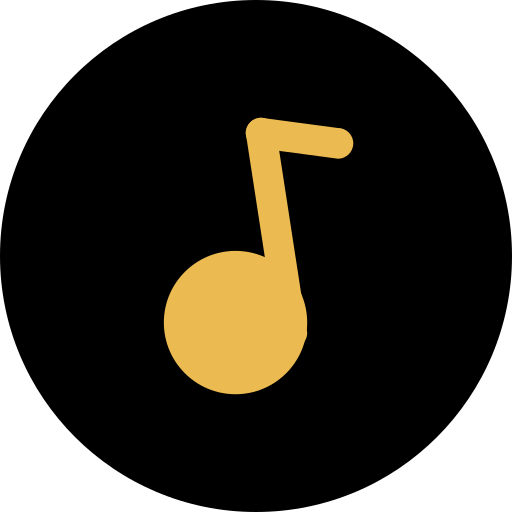
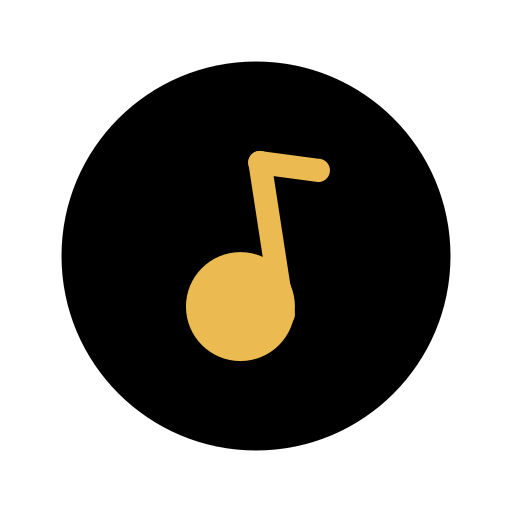
fix(mobile): 状态栏割裂 / PWA 闪绿 / 图标过大
1. 状态栏与内容割裂
   上一版把光晕中心放在 50% 0%（最顶端最亮），而 meta theme-color 是
   纯 theme.deep，两者色差在状态栏下沿形成一条明显色带。
   现在顶部 0~18% 用不透明纯 deep 遮罩，光晕下移到 46%（唱片区）才开始渐亮。
   像素级验证：6 套配色状态栏与内容顶部完全同色。

2. PWA 启动还是绿色
   manifest.json 的 background_color/theme_color 写死 #4d7c5f，这是 PWA
   启动闪屏的唯一来源（HTML 里的 theme-color 管不到）。改成 #10151c，
   与首屏 body 底色一致，从闪屏到内容无缝。
   iOS 状态栏 default（黑字）→ black-translucent（白字），配深色底才看得清。

3. 图标太大
   icon.svg 的黑色圆是 r=512 全出血，撑满画布，系统按"内容占满"渲染，
   视觉上比别的 App 大一圈。缩到 r=389（76%），四周留安全边距。
   另外补 icon-180.png（iOS 标准尺寸，原来给 192 会被拉伸），
   并把 maskable 拆成独立文件（满铺矩形 + 图形缩到 62%），
   避免 Android 圆形裁切切到图形。

顺带修：上一版用 !text-[var(--m-accent)] 等任意值类名，但 tailwind.css
是预编译的，这些类根本没被编译进去，图标会继承白色 → 白底上隐形。
已用项目自带的 build:css 重新编译，3 个主题类均正确生成。

版本 v10.2.14 → v10.2.15

diff --git a/assets/css/tailwind.css b/assets/css/tailwind.css
@@ -1,1 +1,1 @@
-*,:after,:before{--tw-border-spacing-x:0;--tw-border-spacing-y:0;--tw-translate-x:0;--tw-translate-y:0;--tw-rotate:0;--tw-skew-x:0;--tw-skew-y:0;--tw-scale-x:1;--tw-scale-y:1;--tw-pan-x: ;--tw-pan-y: ;--tw-pinch-zoom: ;--tw-scroll-snap-strictness:proximity;--tw-gradient-from-position: ;--tw-gradient-via-position: ;--tw-gradient-to-position: ;--tw-ordinal: ;--tw-slashed-zero: ;--tw-numeric-figure: ;--tw-numeric-spacing: ;--tw-numeric-fraction: ;--tw-ring-inset: ;--tw-ring-offset-width:0px;--tw-ring-offset-color:#fff;--tw-ring-color:rgba(59,130,246,.5);--tw-ring-offset-shadow:0 0 #0000;--tw-ring-shadow:0 0 #0000;--tw-shadow:0 0 #0000;--tw-shadow-colored:0 0 #0000;--tw-blur: ;--tw-brightness: ;--tw-contrast: ;--tw-grayscale: ;--tw-hue-rotate: ;--tw-invert: ;--tw-saturate: ;--tw-sepia: ;--tw-drop-shadow: ;--tw-backdrop-blur: ;--tw-backdrop-brightness: ;--tw-backdrop-contrast: ;--tw-backdrop-grayscale: ;--tw-backdrop-hue-rotate: ;--tw-backdrop-invert: ;--tw-backdrop-opacity: ;--tw-backdrop-saturate: ;--tw-backdrop-sepia: ;--tw-contain-size: ;--tw-contain-layout: ;--tw-contain-paint: ;--tw-contain-style: }::backdrop{--tw-border-spacing-x:0;--tw-border-spacing-y:0;--tw-translate-x:0;--tw-translate-y:0;--tw-rotate:0;--tw-skew-x:0;--tw-skew-y:0;--tw-scale-x:1;--tw-scale-y:1;--tw-pan-x: ;--tw-pan-y: ;--tw-pinch-zoom: ;--tw-scroll-snap-strictness:proximity;--tw-gradient-from-position: ;--tw-gradient-via-position: ;--tw-gradient-to-position: ;--tw-ordinal: ;--tw-slashed-zero: ;--tw-numeric-figure: ;--tw-numeric-spacing: ;--tw-numeric-fraction: ;--tw-ring-inset: ;--tw-ring-offset-width:0px;--tw-ring-offset-color:#fff;--tw-ring-color:rgba(59,130,246,.5);--tw-ring-offset-shadow:0 0 #0000;--tw-ring-shadow:0 0 #0000;--tw-shadow:0 0 #0000;--tw-shadow-colored:0 0 #0000;--tw-blur: ;--tw-brightness: ;--tw-contrast: ;--tw-grayscale: ;--tw-hue-rotate: ;--tw-invert: ;--tw-saturate: ;--tw-sepia: ;--tw-drop-shadow: ;--tw-backdrop-blur: ;--tw-backdrop-brightness: ;--tw-backdrop-contrast: ;--tw-backdrop-grayscale: ;--tw-backdrop-hue-rotate: ;--tw-backdrop-invert: ;--tw-backdrop-opacity: ;--tw-backdrop-saturate: ;--tw-backdrop-sepia: ;--tw-contain-size: ;--tw-contain-layout: ;--tw-contain-paint: ;--tw-contain-style: }/*! tailwindcss v3.4.19 | MIT License | https://tailwindcss.com*/*,:after,:before{box-sizing:border-box;border:0 solid #e5e7eb}:after,:before{--tw-content:""}:host,html{line-height:1.5;-webkit-text-size-adjust:100%;-moz-tab-size:4;-o-tab-size:4;tab-size:4;font-family:ui-sans-serif,system-ui,sans-serif,Apple Color Emoji,Segoe UI Emoji,Segoe UI Symbol,Noto Color Emoji;font-feature-settings:normal;font-variation-settings:normal;-webkit-tap-highlight-color:transparent}body{margin:0;line-height:inherit}hr{height:0;color:inherit;border-top-width:1px}abbr:where([title]){-webkit-text-decoration:underline dotted;text-decoration:underline dotted}h1,h2,h3,h4,h5,h6{font-size:inherit;font-weight:inherit}a{color:inherit;text-decoration:inherit}b,strong{font-weight:bolder}code,kbd,pre,samp{font-family:ui-monospace,SFMono-Regular,Menlo,Monaco,Consolas,Liberation Mono,Courier New,monospace;font-feature-settings:normal;font-variation-settings:normal;font-size:1em}small{font-size:80%}sub,sup{font-size:75%;line-height:0;position:relative;vertical-align:baseline}sub{bottom:-.25em}sup{top:-.5em}table{text-indent:0;border-color:inherit;border-collapse:collapse}button,input,optgroup,select,textarea{font-family:inherit;font-feature-settings:inherit;font-variation-settings:inherit;font-size:100%;font-weight:inherit;line-height:inherit;letter-spacing:inherit;color:inherit;margin:0;padding:0}button,select{text-transform:none}button,input:where([type=button]),input:where([type=reset]),input:where([type=submit]){-webkit-appearance:button;background-color:transparent;background-image:none}:-moz-focusring{outline:auto}:-moz-ui-invalid{box-shadow:none}progress{vertical-align:baseline}::-webkit-inner-spin-button,::-webkit-outer-spin-button{height:auto}[type=search]{-webkit-appearance:textfield;outline-offset:-2px}::-webkit-search-decoration{-webkit-appearance:none}::-webkit-file-upload-button{-webkit-appearance:button;font:inherit}summary{display:list-item}blockquote,dd,dl,figure,h1,h2,h3,h4,h5,h6,hr,p,pre{margin:0}fieldset{margin:0}fieldset,legend{padding:0}menu,ol,ul{list-style:none;margin:0;padding:0}dialog{padding:0}textarea{resize:vertical}input::-moz-placeholder,textarea::-moz-placeholder{opacity:1;color:#9ca3af}input::placeholder,textarea::placeholder{opacity:1;color:#9ca3af}[role=button],button{cursor:pointer}:disabled{cursor:default}audio,canvas,embed,iframe,img,object,svg,video{display:block;vertical-align:middle}img,video{max-width:100%;height:auto}[hidden]:where(:not([hidden=until-found])){display:none}.\!container{width:100%!important}.container{width:100%}@media (min-width:640px){.\!container{max-width:640px!important}.container{max-width:640px}}@media (min-width:768px){.\!container{max-width:768px!important}.container{max-width:768px}}@media (min-width:1024px){.\!container{max-width:1024px!important}.container{max-width:1024px}}@media (min-width:1280px){.\!container{max-width:1280px!important}.container{max-width:1280px}}@media (min-width:1536px){.\!container{max-width:1536px!important}.container{max-width:1536px}}.pointer-events-none{pointer-events:none}.visible{visibility:visible}.fixed{position:fixed}.absolute{position:absolute}.relative{position:relative}.inset-0{inset:0}.\!-right-1\.5{right:-.375rem!important}.\!right-\[-8px\]{right:-8px!important}.isolate{isolation:isolate}.z-\[3000\]{z-index:3000}.mx-auto{margin-left:auto;margin-right:auto}.mb-1{margin-bottom:.25rem}.mb-2{margin-bottom:.5rem}.mb-5{margin-bottom:1.25rem}.mb-8{margin-bottom:2rem}.ml-2{margin-left:.5rem}.ml-4{margin-left:1rem}.mt-2{margin-top:.5rem}.mt-3{margin-top:.75rem}.mt-6{margin-top:1.5rem}.block{display:block}.inline-block{display:inline-block}.flex{display:flex}.inline-flex{display:inline-flex}.grid{display:grid}.hidden{display:none}.\!h-3{height:.75rem!important}.\!h-\[16px\]{height:16px!important}.h-1\.5{height:.375rem}.h-10{height:2.5rem}.h-3{height:.75rem}.h-4{height:1rem}.h-5{height:1.25rem}.h-6{height:1.5rem}.h-8{height:2rem}.max-h-\[350px\]{max-height:350px}.min-h-\[100px\]{min-height:100px}.\!w-3{width:.75rem!important}.\!w-\[16px\]{width:16px!important}.w-1\.5{width:.375rem}.w-10{width:2.5rem}.w-2\/3{width:66.666667%}.w-3{width:.75rem}.w-4{width:1rem}.w-5{width:1.25rem}.w-6{width:1.5rem}.w-8{width:2rem}.w-\[300px\]{width:300px}.w-\[320px\]{width:320px}.w-full{width:100%}.max-w-\[70\%\]{max-width:70%}.max-w-\[90\%\]{max-width:90%}.flex-1{flex:1 1 0%}.flex-shrink{flex-shrink:1}.flex-shrink-0{flex-shrink:0}.scale-95{--tw-scale-x:.95;--tw-scale-y:.95}.scale-95,.transform{transform:translate(var(--tw-translate-x),var(--tw-translate-y)) rotate(var(--tw-rotate)) skewX(var(--tw-skew-x)) skewY(var(--tw-skew-y)) scaleX(var(--tw-scale-x)) scaleY(var(--tw-scale-y))}@keyframes pulse{50%{opacity:.5}}.animate-pulse{animation:pulse 2s cubic-bezier(.4,0,.6,1) infinite}.cursor-pointer{cursor:pointer}.resize{resize:both}.flex-col{flex-direction:column}.flex-wrap{flex-wrap:wrap}.items-center{align-items:center}.justify-center{justify-content:center}.justify-between{justify-content:space-between}.gap-1\.5{gap:.375rem}.gap-2{gap:.5rem}.gap-3{gap:.75rem}.gap-4{gap:1rem}.space-y-2>:not([hidden])~:not([hidden]){--tw-space-y-reverse:0;margin-top:calc(.5rem*(1 - var(--tw-space-y-reverse)));margin-bottom:calc(.5rem*var(--tw-space-y-reverse))}.space-y-3>:not([hidden])~:not([hidden]){--tw-space-y-reverse:0;margin-top:calc(.75rem*(1 - var(--tw-space-y-reverse)));margin-bottom:calc(.75rem*var(--tw-space-y-reverse))}.overflow-hidden{overflow:hidden}.overflow-x-auto{overflow-x:auto}.overflow-y-auto{overflow-y:auto}.truncate{overflow:hidden;text-overflow:ellipsis}.truncate,.whitespace-nowrap{white-space:nowrap}.rounded{border-radius:.25rem}.rounded-2xl{border-radius:1rem}.rounded-3xl{border-radius:1.5rem}.rounded-\[2\.5rem\]{border-radius:2.5rem}.rounded-full{border-radius:9999px}.rounded-lg{border-radius:.5rem}.rounded-xl{border-radius:.75rem}.\!border-\[2px\]{border-width:2px!important}.border{border-width:1px}.border-b{border-bottom-width:1px}.\!border-white{--tw-border-opacity:1!important;border-color:rgb(255 255 255/var(--tw-border-opacity,1))!important}.border-black\/5{border-color:rgba(0,0,0,.05)}.border-white\/10{border-color:hsla(0,0%,100%,.1)}.border-white\/20{border-color:hsla(0,0%,100%,.2)}.border-white\/25{border-color:hsla(0,0%,100%,.25)}.border-white\/5{border-color:hsla(0,0%,100%,.05)}.\!bg-\[\#4d7c5f\]{--tw-bg-opacity:1!important;background-color:rgb(77 124 95/var(--tw-bg-opacity,1))!important}.\!bg-transparent{background-color:transparent!important}.\!bg-white{--tw-bg-opacity:1!important;background-color:rgb(255 255 255/var(--tw-bg-opacity,1))!important}.\!bg-white\/10{background-color:hsla(0,0%,100%,.1)!important}.\!bg-white\/20{background-color:hsla(0,0%,100%,.2)!important}.\!bg-white\/25{background-color:hsla(0,0%,100%,.25)!important}.bg-\[\#1e293b\]\/80{background-color:rgba(30,41,59,.8)}.bg-\[\#1e293b\]\/95{background-color:rgba(30,41,59,.95)}.bg-\[\#4d7c5f\]{--tw-bg-opacity:1;background-color:rgb(77 124 95/var(--tw-bg-opacity,1))}.bg-black\/60{background-color:rgba(0,0,0,.6)}.bg-emerald-400{--tw-bg-opacity:1;background-color:rgb(52 211 153/var(--tw-bg-opacity,1))}.bg-red-400{--tw-bg-opacity:1;background-color:rgb(248 113 113/var(--tw-bg-opacity,1))}.bg-red-500\/20{background-color:rgba(239,68,68,.2)}.bg-red-500\/5{background-color:rgba(239,68,68,.05)}.bg-white\/10{background-color:hsla(0,0%,100%,.1)}.bg-white\/15{background-color:hsla(0,0%,100%,.15)}.bg-white\/5{background-color:hsla(0,0%,100%,.05)}.object-cover{-o-object-fit:cover;object-fit:cover}.p-0{padding:0}.p-3{padding:.75rem}.p-4{padding:1rem}.p-6{padding:1.5rem}.p-8{padding:2rem}.px-1{padding-left:.25rem;padding-right:.25rem}.px-2{padding-left:.5rem;padding-right:.5rem}.px-3{padding-left:.75rem;padding-right:.75rem}.px-4{padding-left:1rem;padding-right:1rem}.px-5{padding-left:1.25rem;padding-right:1.25rem}.py-0\.5{padding-top:.125rem;padding-bottom:.125rem}.py-1\.5{padding-top:.375rem;padding-bottom:.375rem}.py-10{padding-top:2.5rem;padding-bottom:2.5rem}.py-2{padding-top:.5rem;padding-bottom:.5rem}.py-2\.5{padding-top:.625rem;padding-bottom:.625rem}.py-20{padding-top:5rem;padding-bottom:5rem}.py-3{padding-top:.75rem;padding-bottom:.75rem}.py-4{padding-top:1rem;padding-bottom:1rem}.pb-10{padding-bottom:2.5rem}.pb-3{padding-bottom:.75rem}.text-center{text-align:center}.font-mono{font-family:ui-monospace,SFMono-Regular,Menlo,Monaco,Consolas,Liberation Mono,Courier New,monospace}.text-\[10px\]{font-size:10px}.text-\[11px\]{font-size:11px}.text-\[9px\]{font-size:9px}.text-lg{font-size:1.125rem;line-height:1.75rem}.text-sm{font-size:.875rem;line-height:1.25rem}.text-xl{font-size:1.25rem;line-height:1.75rem}.text-xs{font-size:.75rem;line-height:1rem}.font-black{font-weight:900}.font-bold{font-weight:700}.uppercase{text-transform:uppercase}.italic{font-style:italic}.tabular-nums{--tw-numeric-spacing:tabular-nums;font-variant-numeric:var(--tw-ordinal) var(--tw-slashed-zero) var(--tw-numeric-figure) var(--tw-numeric-spacing) var(--tw-numeric-fraction)}.leading-relaxed{line-height:1.625}.tracking-tight{letter-spacing:-.025em}.tracking-wider{letter-spacing:.05em}.tracking-widest{letter-spacing:.1em}.\!text-\[\#4d7c5f\]{--tw-text-opacity:1!important;color:rgb(77 124 95/var(--tw-text-opacity,1))!important}.text-emerald-400{--tw-text-opacity:1;color:rgb(52 211 153/var(--tw-text-opacity,1))}.text-red-300{--tw-text-opacity:1;color:rgb(252 165 165/var(--tw-text-opacity,1))}.text-red-400\/60{color:hsla(0,91%,71%,.6)}.text-slate-800{--tw-text-opacity:1;color:rgb(30 41 59/var(--tw-text-opacity,1))}.text-white{--tw-text-opacity:1;color:rgb(255 255 255/var(--tw-text-opacity,1))}.text-white\/20{color:hsla(0,0%,100%,.2)}.text-white\/30{color:hsla(0,0%,100%,.3)}.text-white\/40{color:hsla(0,0%,100%,.4)}.text-white\/50{color:hsla(0,0%,100%,.5)}.text-white\/60{color:hsla(0,0%,100%,.6)}.text-white\/80{color:hsla(0,0%,100%,.8)}.\!opacity-100{opacity:1!important}.\!opacity-30{opacity:.3!important}.opacity-0{opacity:0}.opacity-20{opacity:.2}.opacity-30{opacity:.3}.opacity-40{opacity:.4}.opacity-50{opacity:.5}.\!shadow-xl{--tw-shadow:0 20px 25px -5px rgba(0,0,0,.1),0 8px 10px -6px rgba(0,0,0,.1)!important;--tw-shadow-colored:0 20px 25px -5px var(--tw-shadow-color),0 8px 10px -6px var(--tw-shadow-color)!important;box-shadow:var(--tw-ring-offset-shadow,0 0 #0000),var(--tw-ring-shadow,0 0 #0000),var(--tw-shadow)!important}.shadow-2xl{--tw-shadow:0 25px 50px -12px rgba(0,0,0,.25);--tw-shadow-colored:0 25px 50px -12px var(--tw-shadow-color);box-shadow:var(--tw-ring-offset-shadow,0 0 #0000),var(--tw-ring-shadow,0 0 #0000),var(--tw-shadow)}.shadow-\[0_0_5px_\#34d399\]{--tw-shadow:0 0 5px #34d399;--tw-shadow-colored:0 0 5px var(--tw-shadow-color)}.shadow-\[0_0_5px_\#34d399\],.shadow-\[0_0_5px_\#f87171\]{box-shadow:var(--tw-ring-offset-shadow,0 0 #0000),var(--tw-ring-shadow,0 0 #0000),var(--tw-shadow)}.shadow-\[0_0_5px_\#f87171\]{--tw-shadow:0 0 5px #f87171;--tw-shadow-colored:0 0 5px var(--tw-shadow-color)}.shadow-inner{--tw-shadow:inset 0 2px 4px 0 rgba(0,0,0,.05);--tw-shadow-colored:inset 0 2px 4px 0 var(--tw-shadow-color)}.shadow-inner,.shadow-lg{box-shadow:var(--tw-ring-offset-shadow,0 0 #0000),var(--tw-ring-shadow,0 0 #0000),var(--tw-shadow)}.shadow-lg{--tw-shadow:0 10px 15px -3px rgba(0,0,0,.1),0 4px 6px -4px rgba(0,0,0,.1);--tw-shadow-colored:0 10px 15px -3px var(--tw-shadow-color),0 4px 6px -4px var(--tw-shadow-color)}.shadow-sm{--tw-shadow:0 1px 2px 0 rgba(0,0,0,.05);--tw-shadow-colored:0 1px 2px 0 var(--tw-shadow-color);box-shadow:var(--tw-ring-offset-shadow,0 0 #0000),var(--tw-ring-shadow,0 0 #0000),var(--tw-shadow)}.outline-none{outline:2px solid transparent;outline-offset:2px}.outline{outline-style:solid}.blur{--tw-blur:blur(8px)}.blur,.filter{filter:var(--tw-blur) var(--tw-brightness) var(--tw-contrast) var(--tw-grayscale) var(--tw-hue-rotate) var(--tw-invert) var(--tw-saturate) var(--tw-sepia) var(--tw-drop-shadow)}.backdrop-blur-2xl{--tw-backdrop-blur:blur(40px)}.backdrop-blur-2xl,.backdrop-blur-3xl{-webkit-backdrop-filter:var(--tw-backdrop-blur) var(--tw-backdrop-brightness) var(--tw-backdrop-contrast) var(--tw-backdrop-grayscale) var(--tw-backdrop-hue-rotate) var(--tw-backdrop-invert) var(--tw-backdrop-opacity) var(--tw-backdrop-saturate) var(--tw-backdrop-sepia);backdrop-filter:var(--tw-backdrop-blur) var(--tw-backdrop-brightness) var(--tw-backdrop-contrast) var(--tw-backdrop-grayscale) var(--tw-backdrop-hue-rotate) var(--tw-backdrop-invert) var(--tw-backdrop-opacity) var(--tw-backdrop-saturate) var(--tw-backdrop-sepia)}.backdrop-blur-3xl{--tw-backdrop-blur:blur(64px)}.backdrop-blur-xl{--tw-backdrop-blur:blur(24px)}.backdrop-blur-xl,.backdrop-filter{-webkit-backdrop-filter:var(--tw-backdrop-blur) var(--tw-backdrop-brightness) var(--tw-backdrop-contrast) var(--tw-backdrop-grayscale) var(--tw-backdrop-hue-rotate) var(--tw-backdrop-invert) var(--tw-backdrop-opacity) var(--tw-backdrop-saturate) var(--tw-backdrop-sepia);backdrop-filter:var(--tw-backdrop-blur) var(--tw-backdrop-brightness) var(--tw-backdrop-contrast) var(--tw-backdrop-grayscale) var(--tw-backdrop-hue-rotate) var(--tw-backdrop-invert) var(--tw-backdrop-opacity) var(--tw-backdrop-saturate) var(--tw-backdrop-sepia)}.transition{transition-property:color,background-color,border-color,text-decoration-color,fill,stroke,opacity,box-shadow,transform,filter,-webkit-backdrop-filter;transition-property:color,background-color,border-color,text-decoration-color,fill,stroke,opacity,box-shadow,transform,filter,backdrop-filter;transition-property:color,background-color,border-color,text-decoration-color,fill,stroke,opacity,box-shadow,transform,filter,backdrop-filter,-webkit-backdrop-filter;transition-timing-function:cubic-bezier(.4,0,.2,1);transition-duration:.15s}.transition-all{transition-property:all;transition-timing-function:cubic-bezier(.4,0,.2,1);transition-duration:.15s}.duration-300{transition-duration:.3s}.ease-in-out{transition-timing-function:cubic-bezier(.4,0,.2,1)}.hover\:scale-110:hover{--tw-scale-x:1.1;--tw-scale-y:1.1}.hover\:scale-110:hover,.hover\:scale-125:hover{transform:translate(var(--tw-translate-x),var(--tw-translate-y)) rotate(var(--tw-rotate)) skewX(var(--tw-skew-x)) skewY(var(--tw-skew-y)) scaleX(var(--tw-scale-x)) scaleY(var(--tw-scale-y))}.hover\:scale-125:hover{--tw-scale-x:1.25;--tw-scale-y:1.25}.hover\:bg-\[\#5a8f6e\]:hover{--tw-bg-opacity:1;background-color:rgb(90 143 110/var(--tw-bg-opacity,1))}.hover\:bg-white\/10:hover{background-color:hsla(0,0%,100%,.1)}.hover\:bg-white\/20:hover{background-color:hsla(0,0%,100%,.2)}.hover\:text-white:hover{--tw-text-opacity:1;color:rgb(255 255 255/var(--tw-text-opacity,1))}.hover\:opacity-100:hover{opacity:1}.focus\:border-\[\#4d7c5f\]\/50:focus{border-color:rgba(77,124,95,.5)}.focus\:bg-white\/10:focus{background-color:hsla(0,0%,100%,.1)}.active\:scale-95:active{--tw-scale-x:.95;--tw-scale-y:.95;transform:translate(var(--tw-translate-x),var(--tw-translate-y)) rotate(var(--tw-rotate)) skewX(var(--tw-skew-x)) skewY(var(--tw-skew-y)) scaleX(var(--tw-scale-x)) scaleY(var(--tw-scale-y))}
+*,:after,:before{--tw-border-spacing-x:0;--tw-border-spacing-y:0;--tw-translate-x:0;--tw-translate-y:0;--tw-rotate:0;--tw-skew-x:0;--tw-skew-y:0;--tw-scale-x:1;--tw-scale-y:1;--tw-pan-x: ;--tw-pan-y: ;--tw-pinch-zoom: ;--tw-scroll-snap-strictness:proximity;--tw-gradient-from-position: ;--tw-gradient-via-position: ;--tw-gradient-to-position: ;--tw-ordinal: ;--tw-slashed-zero: ;--tw-numeric-figure: ;--tw-numeric-spacing: ;--tw-numeric-fraction: ;--tw-ring-inset: ;--tw-ring-offset-width:0px;--tw-ring-offset-color:#fff;--tw-ring-color:rgba(59,130,246,.5);--tw-ring-offset-shadow:0 0 #0000;--tw-ring-shadow:0 0 #0000;--tw-shadow:0 0 #0000;--tw-shadow-colored:0 0 #0000;--tw-blur: ;--tw-brightness: ;--tw-contrast: ;--tw-grayscale: ;--tw-hue-rotate: ;--tw-invert: ;--tw-saturate: ;--tw-sepia: ;--tw-drop-shadow: ;--tw-backdrop-blur: ;--tw-backdrop-brightness: ;--tw-backdrop-contrast: ;--tw-backdrop-grayscale: ;--tw-backdrop-hue-rotate: ;--tw-backdrop-invert: ;--tw-backdrop-opacity: ;--tw-backdrop-saturate: ;--tw-backdrop-sepia: ;--tw-contain-size: ;--tw-contain-layout: ;--tw-contain-paint: ;--tw-contain-style: }::backdrop{--tw-border-spacing-x:0;--tw-border-spacing-y:0;--tw-translate-x:0;--tw-translate-y:0;--tw-rotate:0;--tw-skew-x:0;--tw-skew-y:0;--tw-scale-x:1;--tw-scale-y:1;--tw-pan-x: ;--tw-pan-y: ;--tw-pinch-zoom: ;--tw-scroll-snap-strictness:proximity;--tw-gradient-from-position: ;--tw-gradient-via-position: ;--tw-gradient-to-position: ;--tw-ordinal: ;--tw-slashed-zero: ;--tw-numeric-figure: ;--tw-numeric-spacing: ;--tw-numeric-fraction: ;--tw-ring-inset: ;--tw-ring-offset-width:0px;--tw-ring-offset-color:#fff;--tw-ring-color:rgba(59,130,246,.5);--tw-ring-offset-shadow:0 0 #0000;--tw-ring-shadow:0 0 #0000;--tw-shadow:0 0 #0000;--tw-shadow-colored:0 0 #0000;--tw-blur: ;--tw-brightness: ;--tw-contrast: ;--tw-grayscale: ;--tw-hue-rotate: ;--tw-invert: ;--tw-saturate: ;--tw-sepia: ;--tw-drop-shadow: ;--tw-backdrop-blur: ;--tw-backdrop-brightness: ;--tw-backdrop-contrast: ;--tw-backdrop-grayscale: ;--tw-backdrop-hue-rotate: ;--tw-backdrop-invert: ;--tw-backdrop-opacity: ;--tw-backdrop-saturate: ;--tw-backdrop-sepia: ;--tw-contain-size: ;--tw-contain-layout: ;--tw-contain-paint: ;--tw-contain-style: }/*! tailwindcss v3.4.19 | MIT License | https://tailwindcss.com*/*,:after,:before{box-sizing:border-box;border:0 solid #e5e7eb}:after,:before{--tw-content:""}:host,html{line-height:1.5;-webkit-text-size-adjust:100%;-moz-tab-size:4;-o-tab-size:4;tab-size:4;font-family:ui-sans-serif,system-ui,sans-serif,Apple Color Emoji,Segoe UI Emoji,Segoe UI Symbol,Noto Color Emoji;font-feature-settings:normal;font-variation-settings:normal;-webkit-tap-highlight-color:transparent}body{margin:0;line-height:inherit}hr{height:0;color:inherit;border-top-width:1px}abbr:where([title]){-webkit-text-decoration:underline dotted;text-decoration:underline dotted}h1,h2,h3,h4,h5,h6{font-size:inherit;font-weight:inherit}a{color:inherit;text-decoration:inherit}b,strong{font-weight:bolder}code,kbd,pre,samp{font-family:ui-monospace,SFMono-Regular,Menlo,Monaco,Consolas,Liberation Mono,Courier New,monospace;font-feature-settings:normal;font-variation-settings:normal;font-size:1em}small{font-size:80%}sub,sup{font-size:75%;line-height:0;position:relative;vertical-align:baseline}sub{bottom:-.25em}sup{top:-.5em}table{text-indent:0;border-color:inherit;border-collapse:collapse}button,input,optgroup,select,textarea{font-family:inherit;font-feature-settings:inherit;font-variation-settings:inherit;font-size:100%;font-weight:inherit;line-height:inherit;letter-spacing:inherit;color:inherit;margin:0;padding:0}button,select{text-transform:none}button,input:where([type=button]),input:where([type=reset]),input:where([type=submit]){-webkit-appearance:button;background-color:transparent;background-image:none}:-moz-focusring{outline:auto}:-moz-ui-invalid{box-shadow:none}progress{vertical-align:baseline}::-webkit-inner-spin-button,::-webkit-outer-spin-button{height:auto}[type=search]{-webkit-appearance:textfield;outline-offset:-2px}::-webkit-search-decoration{-webkit-appearance:none}::-webkit-file-upload-button{-webkit-appearance:button;font:inherit}summary{display:list-item}blockquote,dd,dl,figure,h1,h2,h3,h4,h5,h6,hr,p,pre{margin:0}fieldset{margin:0}fieldset,legend{padding:0}menu,ol,ul{list-style:none;margin:0;padding:0}dialog{padding:0}textarea{resize:vertical}input::-moz-placeholder,textarea::-moz-placeholder{opacity:1;color:#9ca3af}input::placeholder,textarea::placeholder{opacity:1;color:#9ca3af}[role=button],button{cursor:pointer}:disabled{cursor:default}audio,canvas,embed,iframe,img,object,svg,video{display:block;vertical-align:middle}img,video{max-width:100%;height:auto}[hidden]:where(:not([hidden=until-found])){display:none}.\!container{width:100%!important}.container{width:100%}@media (min-width:640px){.\!container{max-width:640px!important}.container{max-width:640px}}@media (min-width:768px){.\!container{max-width:768px!important}.container{max-width:768px}}@media (min-width:1024px){.\!container{max-width:1024px!important}.container{max-width:1024px}}@media (min-width:1280px){.\!container{max-width:1280px!important}.container{max-width:1280px}}@media (min-width:1536px){.\!container{max-width:1536px!important}.container{max-width:1536px}}.pointer-events-none{pointer-events:none}.visible{visibility:visible}.fixed{position:fixed}.absolute{position:absolute}.relative{position:relative}.inset-0{inset:0}.\!-right-1\.5{right:-.375rem!important}.\!right-\[-8px\]{right:-8px!important}.isolate{isolation:isolate}.z-\[3000\]{z-index:3000}.mx-auto{margin-left:auto;margin-right:auto}.mb-1{margin-bottom:.25rem}.mb-2{margin-bottom:.5rem}.mb-5{margin-bottom:1.25rem}.mb-8{margin-bottom:2rem}.ml-2{margin-left:.5rem}.ml-4{margin-left:1rem}.mt-3{margin-top:.75rem}.mt-6{margin-top:1.5rem}.block{display:block}.inline-block{display:inline-block}.flex{display:flex}.inline-flex{display:inline-flex}.grid{display:grid}.hidden{display:none}.\!h-3{height:.75rem!important}.\!h-\[16px\]{height:16px!important}.h-1\.5{height:.375rem}.h-10{height:2.5rem}.h-3{height:.75rem}.h-4{height:1rem}.h-5{height:1.25rem}.h-6{height:1.5rem}.h-8{height:2rem}.max-h-\[350px\]{max-height:350px}.min-h-\[100px\]{min-height:100px}.\!w-3{width:.75rem!important}.\!w-\[16px\]{width:16px!important}.w-1\.5{width:.375rem}.w-10{width:2.5rem}.w-2\/3{width:66.666667%}.w-3{width:.75rem}.w-4{width:1rem}.w-5{width:1.25rem}.w-6{width:1.5rem}.w-8{width:2rem}.w-\[300px\]{width:300px}.w-\[320px\]{width:320px}.w-full{width:100%}.max-w-\[70\%\]{max-width:70%}.max-w-\[90\%\]{max-width:90%}.flex-1{flex:1 1 0%}.flex-shrink{flex-shrink:1}.flex-shrink-0{flex-shrink:0}.scale-95{--tw-scale-x:.95;--tw-scale-y:.95}.scale-95,.transform{transform:translate(var(--tw-translate-x),var(--tw-translate-y)) rotate(var(--tw-rotate)) skewX(var(--tw-skew-x)) skewY(var(--tw-skew-y)) scaleX(var(--tw-scale-x)) scaleY(var(--tw-scale-y))}@keyframes pulse{50%{opacity:.5}}.animate-pulse{animation:pulse 2s cubic-bezier(.4,0,.6,1) infinite}.cursor-pointer{cursor:pointer}.resize{resize:both}.flex-col{flex-direction:column}.flex-wrap{flex-wrap:wrap}.items-center{align-items:center}.justify-center{justify-content:center}.justify-between{justify-content:space-between}.gap-1\.5{gap:.375rem}.gap-2{gap:.5rem}.gap-3{gap:.75rem}.gap-4{gap:1rem}.space-y-2>:not([hidden])~:not([hidden]){--tw-space-y-reverse:0;margin-top:calc(.5rem*(1 - var(--tw-space-y-reverse)));margin-bottom:calc(.5rem*var(--tw-space-y-reverse))}.space-y-3>:not([hidden])~:not([hidden]){--tw-space-y-reverse:0;margin-top:calc(.75rem*(1 - var(--tw-space-y-reverse)));margin-bottom:calc(.75rem*var(--tw-space-y-reverse))}.overflow-hidden{overflow:hidden}.overflow-x-auto{overflow-x:auto}.overflow-y-auto{overflow-y:auto}.truncate{overflow:hidden;text-overflow:ellipsis}.truncate,.whitespace-nowrap{white-space:nowrap}.rounded{border-radius:.25rem}.rounded-2xl{border-radius:1rem}.rounded-3xl{border-radius:1.5rem}.rounded-\[2\.5rem\]{border-radius:2.5rem}.rounded-full{border-radius:9999px}.rounded-lg{border-radius:.5rem}.rounded-xl{border-radius:.75rem}.\!border-\[2px\]{border-width:2px!important}.border{border-width:1px}.border-b{border-bottom-width:1px}.\!border-white{--tw-border-opacity:1!important;border-color:rgb(255 255 255/var(--tw-border-opacity,1))!important}.border-black\/5{border-color:rgba(0,0,0,.05)}.border-white\/10{border-color:hsla(0,0%,100%,.1)}.border-white\/20{border-color:hsla(0,0%,100%,.2)}.border-white\/25{border-color:hsla(0,0%,100%,.25)}.border-white\/5{border-color:hsla(0,0%,100%,.05)}.\!bg-\[var\(--m-accent\)\]{background-color:var(--m-accent)!important}.\!bg-transparent{background-color:transparent!important}.\!bg-white{--tw-bg-opacity:1!important;background-color:rgb(255 255 255/var(--tw-bg-opacity,1))!important}.\!bg-white\/10{background-color:hsla(0,0%,100%,.1)!important}.\!bg-white\/20{background-color:hsla(0,0%,100%,.2)!important}.\!bg-white\/25{background-color:hsla(0,0%,100%,.25)!important}.bg-\[\#1e293b\]\/80{background-color:rgba(30,41,59,.8)}.bg-\[\#1e293b\]\/95{background-color:rgba(30,41,59,.95)}.bg-\[var\(--m-accent\)\]{background-color:var(--m-accent)}.bg-black\/60{background-color:rgba(0,0,0,.6)}.bg-emerald-400{--tw-bg-opacity:1;background-color:rgb(52 211 153/var(--tw-bg-opacity,1))}.bg-emerald-500\/30{background-color:rgba(16,185,129,.3)}.bg-red-400{--tw-bg-opacity:1;background-color:rgb(248 113 113/var(--tw-bg-opacity,1))}.bg-red-500\/20{background-color:rgba(239,68,68,.2)}.bg-red-500\/5{background-color:rgba(239,68,68,.05)}.bg-white\/10{background-color:hsla(0,0%,100%,.1)}.bg-white\/15{background-color:hsla(0,0%,100%,.15)}.bg-white\/5{background-color:hsla(0,0%,100%,.05)}.object-cover{-o-object-fit:cover;object-fit:cover}.p-0{padding:0}.p-3{padding:.75rem}.p-4{padding:1rem}.p-6{padding:1.5rem}.p-8{padding:2rem}.px-1{padding-left:.25rem;padding-right:.25rem}.px-2{padding-left:.5rem;padding-right:.5rem}.px-3{padding-left:.75rem;padding-right:.75rem}.px-4{padding-left:1rem;padding-right:1rem}.px-5{padding-left:1.25rem;padding-right:1.25rem}.py-0\.5{padding-top:.125rem;padding-bottom:.125rem}.py-1\.5{padding-top:.375rem;padding-bottom:.375rem}.py-10{padding-top:2.5rem;padding-bottom:2.5rem}.py-2{padding-top:.5rem;padding-bottom:.5rem}.py-2\.5{padding-top:.625rem;padding-bottom:.625rem}.py-20{padding-top:5rem;padding-bottom:5rem}.py-3{padding-top:.75rem;padding-bottom:.75rem}.py-4{padding-top:1rem;padding-bottom:1rem}.pb-10{padding-bottom:2.5rem}.pb-3{padding-bottom:.75rem}.text-center{text-align:center}.font-mono{font-family:ui-monospace,SFMono-Regular,Menlo,Monaco,Consolas,Liberation Mono,Courier New,monospace}.text-\[10px\]{font-size:10px}.text-\[11px\]{font-size:11px}.text-\[9px\]{font-size:9px}.text-lg{font-size:1.125rem;line-height:1.75rem}.text-sm{font-size:.875rem;line-height:1.25rem}.text-xl{font-size:1.25rem;line-height:1.75rem}.text-xs{font-size:.75rem;line-height:1rem}.font-black{font-weight:900}.font-bold{font-weight:700}.uppercase{text-transform:uppercase}.italic{font-style:italic}.tabular-nums{--tw-numeric-spacing:tabular-nums;font-variant-numeric:var(--tw-ordinal) var(--tw-slashed-zero) var(--tw-numeric-figure) var(--tw-numeric-spacing) var(--tw-numeric-fraction)}.leading-relaxed{line-height:1.625}.tracking-tight{letter-spacing:-.025em}.tracking-wider{letter-spacing:.05em}.tracking-widest{letter-spacing:.1em}.\!text-\[var\(--m-accent\)\]{color:var(--m-accent)!important}.text-emerald-300{--tw-text-opacity:1;color:rgb(110 231 183/var(--tw-text-opacity,1))}.text-emerald-400{--tw-text-opacity:1;color:rgb(52 211 153/var(--tw-text-opacity,1))}.text-red-300{--tw-text-opacity:1;color:rgb(252 165 165/var(--tw-text-opacity,1))}.text-red-400\/60{color:hsla(0,91%,71%,.6)}.text-slate-800{--tw-text-opacity:1;color:rgb(30 41 59/var(--tw-text-opacity,1))}.text-white{--tw-text-opacity:1;color:rgb(255 255 255/var(--tw-text-opacity,1))}.text-white\/20{color:hsla(0,0%,100%,.2)}.text-white\/30{color:hsla(0,0%,100%,.3)}.text-white\/40{color:hsla(0,0%,100%,.4)}.text-white\/50{color:hsla(0,0%,100%,.5)}.text-white\/60{color:hsla(0,0%,100%,.6)}.text-white\/80{color:hsla(0,0%,100%,.8)}.\!opacity-100{opacity:1!important}.\!opacity-30{opacity:.3!important}.opacity-0{opacity:0}.opacity-20{opacity:.2}.opacity-30{opacity:.3}.opacity-40{opacity:.4}.opacity-50{opacity:.5}.\!shadow-xl{--tw-shadow:0 20px 25px -5px rgba(0,0,0,.1),0 8px 10px -6px rgba(0,0,0,.1)!important;--tw-shadow-colored:0 20px 25px -5px var(--tw-shadow-color),0 8px 10px -6px var(--tw-shadow-color)!important;box-shadow:var(--tw-ring-offset-shadow,0 0 #0000),var(--tw-ring-shadow,0 0 #0000),var(--tw-shadow)!important}.shadow-2xl{--tw-shadow:0 25px 50px -12px rgba(0,0,0,.25);--tw-shadow-colored:0 25px 50px -12px var(--tw-shadow-color);box-shadow:var(--tw-ring-offset-shadow,0 0 #0000),var(--tw-ring-shadow,0 0 #0000),var(--tw-shadow)}.shadow-\[0_0_5px_\#34d399\]{--tw-shadow:0 0 5px #34d399;--tw-shadow-colored:0 0 5px var(--tw-shadow-color)}.shadow-\[0_0_5px_\#34d399\],.shadow-\[0_0_5px_\#f87171\]{box-shadow:var(--tw-ring-offset-shadow,0 0 #0000),var(--tw-ring-shadow,0 0 #0000),var(--tw-shadow)}.shadow-\[0_0_5px_\#f87171\]{--tw-shadow:0 0 5px #f87171;--tw-shadow-colored:0 0 5px var(--tw-shadow-color)}.shadow-inner{--tw-shadow:inset 0 2px 4px 0 rgba(0,0,0,.05);--tw-shadow-colored:inset 0 2px 4px 0 var(--tw-shadow-color)}.shadow-inner,.shadow-lg{box-shadow:var(--tw-ring-offset-shadow,0 0 #0000),var(--tw-ring-shadow,0 0 #0000),var(--tw-shadow)}.shadow-lg{--tw-shadow:0 10px 15px -3px rgba(0,0,0,.1),0 4px 6px -4px rgba(0,0,0,.1);--tw-shadow-colored:0 10px 15px -3px var(--tw-shadow-color),0 4px 6px -4px var(--tw-shadow-color)}.shadow-sm{--tw-shadow:0 1px 2px 0 rgba(0,0,0,.05);--tw-shadow-colored:0 1px 2px 0 var(--tw-shadow-color);box-shadow:var(--tw-ring-offset-shadow,0 0 #0000),var(--tw-ring-shadow,0 0 #0000),var(--tw-shadow)}.outline-none{outline:2px solid transparent;outline-offset:2px}.outline{outline-style:solid}.blur{--tw-blur:blur(8px)}.blur,.filter{filter:var(--tw-blur) var(--tw-brightness) var(--tw-contrast) var(--tw-grayscale) var(--tw-hue-rotate) var(--tw-invert) var(--tw-saturate) var(--tw-sepia) var(--tw-drop-shadow)}.backdrop-blur-2xl{--tw-backdrop-blur:blur(40px)}.backdrop-blur-2xl,.backdrop-blur-3xl{-webkit-backdrop-filter:var(--tw-backdrop-blur) var(--tw-backdrop-brightness) var(--tw-backdrop-contrast) var(--tw-backdrop-grayscale) var(--tw-backdrop-hue-rotate) var(--tw-backdrop-invert) var(--tw-backdrop-opacity) var(--tw-backdrop-saturate) var(--tw-backdrop-sepia);backdrop-filter:var(--tw-backdrop-blur) var(--tw-backdrop-brightness) var(--tw-backdrop-contrast) var(--tw-backdrop-grayscale) var(--tw-backdrop-hue-rotate) var(--tw-backdrop-invert) var(--tw-backdrop-opacity) var(--tw-backdrop-saturate) var(--tw-backdrop-sepia)}.backdrop-blur-3xl{--tw-backdrop-blur:blur(64px)}.backdrop-blur-xl{--tw-backdrop-blur:blur(24px)}.backdrop-blur-xl,.backdrop-filter{-webkit-backdrop-filter:var(--tw-backdrop-blur) var(--tw-backdrop-brightness) var(--tw-backdrop-contrast) var(--tw-backdrop-grayscale) var(--tw-backdrop-hue-rotate) var(--tw-backdrop-invert) var(--tw-backdrop-opacity) var(--tw-backdrop-saturate) var(--tw-backdrop-sepia);backdrop-filter:var(--tw-backdrop-blur) var(--tw-backdrop-brightness) var(--tw-backdrop-contrast) var(--tw-backdrop-grayscale) var(--tw-backdrop-hue-rotate) var(--tw-backdrop-invert) var(--tw-backdrop-opacity) var(--tw-backdrop-saturate) var(--tw-backdrop-sepia)}.transition{transition-property:color,background-color,border-color,text-decoration-color,fill,stroke,opacity,box-shadow,transform,filter,-webkit-backdrop-filter;transition-property:color,background-color,border-color,text-decoration-color,fill,stroke,opacity,box-shadow,transform,filter,backdrop-filter;transition-property:color,background-color,border-color,text-decoration-color,fill,stroke,opacity,box-shadow,transform,filter,backdrop-filter,-webkit-backdrop-filter;transition-timing-function:cubic-bezier(.4,0,.2,1);transition-duration:.15s}.transition-all{transition-property:all;transition-timing-function:cubic-bezier(.4,0,.2,1);transition-duration:.15s}.duration-300{transition-duration:.3s}.hover\:scale-110:hover{--tw-scale-x:1.1;--tw-scale-y:1.1}.hover\:scale-110:hover,.hover\:scale-125:hover{transform:translate(var(--tw-translate-x),var(--tw-translate-y)) rotate(var(--tw-rotate)) skewX(var(--tw-skew-x)) skewY(var(--tw-skew-y)) scaleX(var(--tw-scale-x)) scaleY(var(--tw-scale-y))}.hover\:scale-125:hover{--tw-scale-x:1.25;--tw-scale-y:1.25}.hover\:bg-white\/10:hover{background-color:hsla(0,0%,100%,.1)}.hover\:bg-white\/20:hover{background-color:hsla(0,0%,100%,.2)}.hover\:text-white:hover{--tw-text-opacity:1;color:rgb(255 255 255/var(--tw-text-opacity,1))}.hover\:opacity-100:hover{opacity:1}.hover\:brightness-110:hover{--tw-brightness:brightness(1.1);filter:var(--tw-blur) var(--tw-brightness) var(--tw-contrast) var(--tw-grayscale) var(--tw-hue-rotate) var(--tw-invert) var(--tw-saturate) var(--tw-sepia) var(--tw-drop-shadow)}.focus\:bg-white\/10:focus{background-color:hsla(0,0%,100%,.1)}.active\:scale-95:active{--tw-scale-x:.95;--tw-scale-y:.95;transform:translate(var(--tw-translate-x),var(--tw-translate-y)) rotate(var(--tw-rotate)) skewX(var(--tw-skew-x)) skewY(var(--tw-skew-y)) scaleX(var(--tw-scale-x)) scaleY(var(--tw-scale-y))}

diff --git a/index.html b/index.html
@@ -3,12 +3,12 @@
 <head>
     <meta charset="UTF-8">
     <meta name="viewport" content="width=device-width, initial-scale=1.0, maximum-scale=1.0, user-scalable=no, viewport-fit=cover">
-    <meta name="theme-color" content="#4d7c5f">
+    <meta name="theme-color" content="#10151c">
     <meta name="apple-mobile-web-app-capable" content="yes">
-    <meta name="apple-mobile-web-app-status-bar-style" content="default">
+    <meta name="apple-mobile-web-app-status-bar-style" content="black-translucent">
     <meta name="apple-mobile-web-app-title" content="TGmusic" id="app-title-meta">
     <link rel="manifest" href="/manifest.json">
-    <link rel="apple-touch-icon" sizes="192x192" href="/assets/icon-192.png">
+    <link rel="apple-touch-icon" sizes="180x180" href="/assets/icon-180.png">
     <title>TGmusic</title>
     <link rel="icon" type="image/svg+xml" href="/assets/icon.svg">
     <link rel="icon" type="image/png" sizes="192x192" href="/assets/icon-192.png">
@@ -25,7 +25,7 @@
             --dynamic-accent: #d97706; --solara-text: #1e293b; --glass-blur: blur(40px);
             --main-glass: linear-gradient(135deg, rgba(255, 255, 255, 0.15) 0%, rgba(255, 255, 255, 0.05) 100%);
             --inner-glass: rgba(255, 255, 255, 0.15); --glass-border: rgba(255, 255, 255, 0.25);
-            --m-green: #4d7c5f; --btn-icon-color: #ffffff;
+            --btn-icon-color: #ffffff;
             /* 移动端主题：由 updateBackground() 按当前配色写入 */
             --m-deep: #0f2e22; --m-deep-2: #06120d; --m-accent: #34d399;
             --m-glow: rgba(52, 211, 153, 0.35);
@@ -125,12 +125,14 @@
         .mobile-player-container {
             display: none; position: fixed; inset: 0; z-index: 100; flex-direction: column;
             padding: env(safe-area-inset-top) 20px env(safe-area-inset-bottom) 10px;
-            /* 主题底色：深色渐变 + 强调色柔光，比单一灰绿有层次 */
+            /* 主题底色。顶部 18% 保持纯 --m-deep，与 theme-color（状态栏）完全同色，
+               否则状态栏和内容之间会有一条色带。光晕下移到唱片区域才开始渐亮。 */
             background:
-                radial-gradient(120% 70% at 50% 0%, var(--m-glow) 0%, transparent 58%),
-                radial-gradient(90% 55% at 50% 100%, var(--m-glow) 0%, transparent 62%),
+                linear-gradient(180deg, var(--m-deep) 0%, var(--m-deep) 18%, transparent 42%),
+                radial-gradient(115% 62% at 50% 46%, var(--m-glow) 0%, transparent 60%),
+                radial-gradient(85% 45% at 50% 100%, var(--m-glow) 0%, transparent 65%),
                 linear-gradient(165deg, var(--m-deep) 0%, var(--m-deep-2) 100%);
-            background-color: var(--m-deep-2);
+            background-color: var(--m-deep);
             transition: background 0.9s cubic-bezier(0.4, 0, 0.2, 1);
         }
         .m-header { height: 50px; width: 100%; display: flex; align-items: center; justify-content: space-between; flex-shrink: 0; background: transparent; border: 0; }
@@ -170,6 +172,14 @@
         .m-btn-row { display: flex; align-items: center; justify-content: space-between; width: 100%; padding-top: 15px; }
         .m-btn-row .btn-round { width: 50px; height: 50px; background: white !important; color: var(--m-accent) !important; box-shadow: 0 8px 26px rgba(0, 0, 0, 0.28); border: 0 !important; display: grid; place-items: center; flex-shrink: 0; transition: transform 0.15s ease, box-shadow 0.25s ease; }
         .m-btn-row .btn-round:active { transform: scale(0.92); }
+        /* 手写主题色类：tailwind.css 是预编译的，`!text-[var(--m-accent)]` 这类
+           任意值类名不会被编译进去，必须在这里自己定义。 */
+        .m-icon-accent { color: var(--m-accent) !important; }
+        .m-prog-dot { background: #fff !important; }
+        .bg-[var(--m-accent)] hover:brightness-110 { background: var(--m-accent); }
+        .bg-[var(--m-accent)] hover:brightness-110:hover { filter: brightness(1.1); }
+        /* tailwind 无法对 CSS 变量做 /50 透明度运算，这条手写 */
+        .dialog-focus-accent:focus { border-color: var(--m-glow); }
         .m-btn-row .btn-main { box-shadow: 0 10px 34px var(--m-glow), 0 6px 18px rgba(0,0,0,0.3); }
         .m-btn-row .btn-main { width: 68px !important; height: 68px !important; }
 
@@ -409,7 +419,7 @@
             <h4 id="dialog-title" class="text-white font-black text-xl mb-2 text-center tracking-tight">提示</h4>
             <p id="dialog-msg" class="text-white/60 text-xs mb-8 text-center leading-relaxed px-4"></p>
             <div id="dialog-input-wrap" class="hidden mb-8">
-                <input id="dialog-input" class="w-full bg-white/5 p-4 rounded-2xl text-white text-sm outline-none border border-white/10 focus:border-[var(--m-accent)]/50 focus:bg-white/10 transition-all shadow-inner" placeholder="请输入...">
+                <input id="dialog-input" class="w-full bg-white/5 p-4 rounded-2xl text-white text-sm outline-none border border-white/10 dialog-focus-accent focus:bg-white/10 transition-all shadow-inner" placeholder="请输入...">
             </div>
             <div class="flex gap-3">
                 <button id="dialog-cancel" onclick="closeSarahDialog()" class="flex-1 py-4 bg-white/5 text-white/50 hover:text-white hover:bg-white/10 rounded-2xl text-[11px] font-black transition-all active:scale-95">取消</button>
@@ -429,7 +439,7 @@
     <div class="desktop-container" id="main-ui">
         <header class="header-stack">
             <h1 class="brand-title" id="brand-title">TGmusic</h1>
-            <p class="brand-sub">Premium Music Hub | v10.2.14</p>
+            <p class="brand-sub">Premium Music Hub | v10.2.15</p>
             <div class="settings-corner">
                 <!-- 设置按钮：更换为高精度垂直滑块图标 (Sliders) -->
                 <div onclick="toggleAdmin(true)" class="btn-round !bg-white/10 border border-white/25 !shadow-xl hover:scale-110 cursor-pointer flex items-center justify-center p-0 overflow-hidden" id="pc-settings-trigger">
@@ -540,7 +550,7 @@
             <div class="admin-header">
                 <div class="flex items-center gap-3 flex-shrink-0">
                     <h3 class="text-xl font-black text-white">设置</h3>
-                    <span class="text-[10px] font-black text-white/40 bg-white/5 px-2 py-0.5 rounded tracking-wider">v10.2.14</span>
+                    <span class="text-[10px] font-black text-white/40 bg-white/5 px-2 py-0.5 rounded tracking-wider">v10.2.15</span>
                 </div>
                 <div id="admin-header-center">
                     <div id="speed-area" class="hidden"><div class="admin-console-box flex items-center gap-4"><span class="text-[9px] font-black text-white/30 uppercase tracking-widest whitespace-nowrap">倍速</span><div class="flex gap-1.5" id="speed-buttons"></div><span id="speed-status" class="text-[10px] text-emerald-400 font-black tabular-nums"></span></div></div>
@@ -1271,7 +1281,7 @@
             
             const stage = document.getElementById('bg-stage'), overlay = document.getElementById('bg-overlay');
             const newGrad = isMob
-                ? `radial-gradient(120% 70% at 50% 0%, ${hexToRgba(theme.accent, 0.3)} 0%, transparent 58%), radial-gradient(90% 55% at 50% 100%, ${hexToRgba(theme.accent, 0.22)} 0%, transparent 62%), linear-gradient(165deg, ${theme.deep} 0%, #000000 100%)`
+                ? `linear-gradient(180deg, ${theme.deep} 0%, ${theme.deep} 18%, transparent 42%), radial-gradient(115% 62% at 50% 46%, ${hexToRgba(theme.accent, 0.3)} 0%, transparent 60%), radial-gradient(85% 45% at 50% 100%, ${hexToRgba(theme.accent, 0.22)} 0%, transparent 65%), linear-gradient(165deg, ${theme.deep} 0%, #000000 100%)`
                 : `linear-gradient(135deg, ${theme.bg} 0%, ${theme.deep} 100%)`;
             
             if (isForceRandom) {

diff --git a/sw.js b/sw.js
@@ -1,4 +1,4 @@
-const CACHE_NAME = 'tgmusic-v5';
+const CACHE_NAME = 'tgmusic-v6';
 const PRECACHE = [
   '/',
   '/manifest.json',
@@ -7,7 +7,10 @@ const PRECACHE = [
   '/assets/js/APlayer.min.js',
   '/assets/js/jsmediatags.min.js',
   '/assets/icon.svg',
-  '/assets/icon-192.png'
+  '/assets/icon-180.png',
+  '/assets/icon-192.png',
+  '/assets/icon-512.png',
+  '/assets/icon-512-maskable.png'
 ];
 
 self.addEventListener('install', (e) => {
